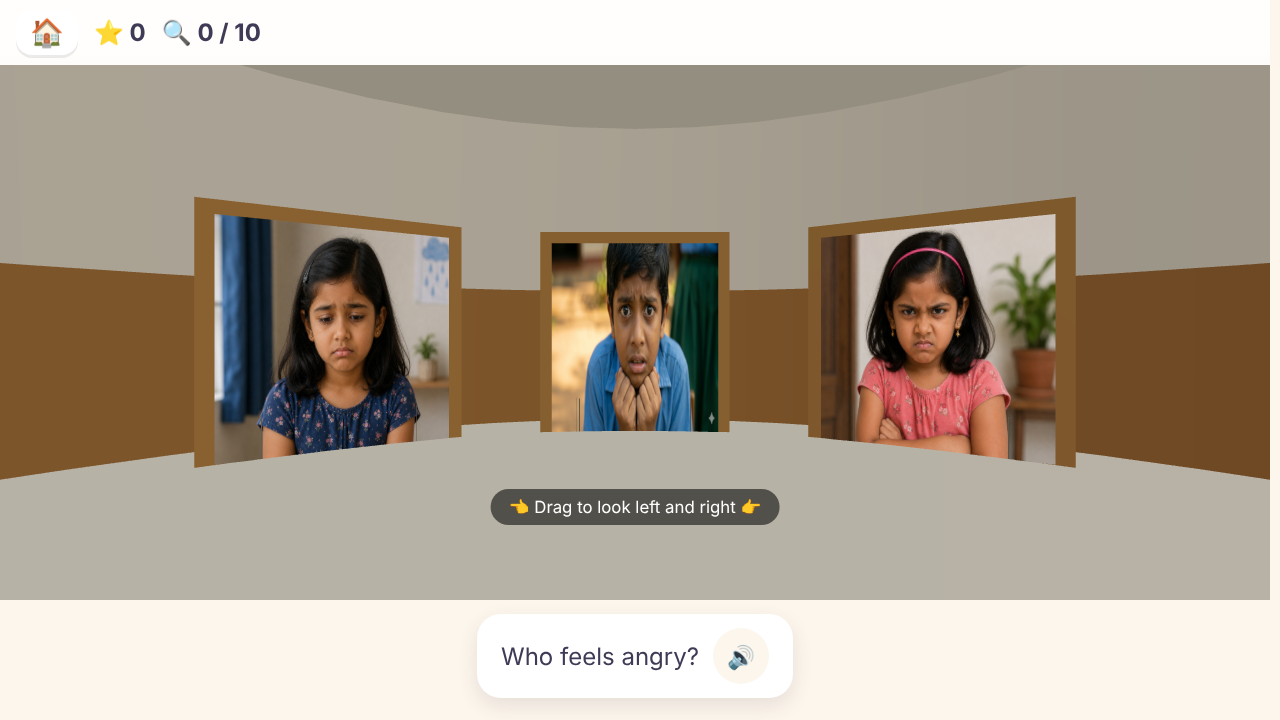
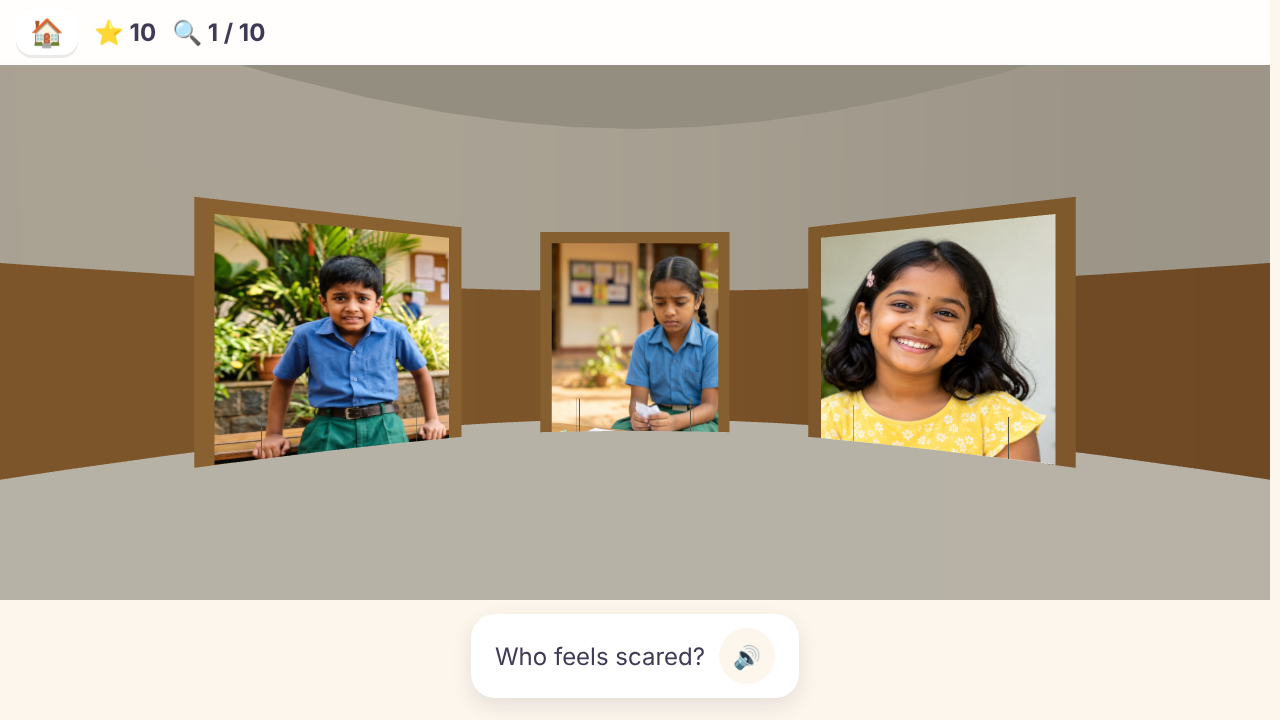
Show Emotion Room 360's faces at their real proportions
A plane maps its whole texture across its own width and height, so a photo
whose aspect does not match the board's gets squeezed to it. Over half of
public/emotions is 2816x1536 landscape and the board is 1.5x1.7, so those
faces were rendered 2.08x too narrow; the rest of the pool is 1402x1122 or
square and came out 1.42x or 1.13x too narrow. makeRound draws a photo at
random each trial, so which distortion a child got varied trial to trial.

That matters here and nowhere else in the app. This game scores a child on
the geometry of a face - mouth width and curvature, eye aperture, brow angle -
so a horizontal squeeze changes the thing being measured, by an amount that
was neither controlled nor recorded. The flat twin renders the same files
through object-fit: contain, undistorted, so the two builds were not even
showing the same stimulus.

coverUv centre-crops each photo to the board's shape instead, the way CSS
"cover" does: keep the full height of a landscape photo and trim the sides,
keep the full width of a tall one and trim top and bottom, never scale the
two axes differently. Letterboxing the whole frame inside the board would
have kept the geometry too, but it shrinks a landscape photo to a strip
about 0.8m tall on a 1.7m board, which puts the face below legible size at
4.2m.

Cropping can only be safe if the face survives it, so all 25 photos were
rendered at the crop and checked: every one keeps the face fully in frame
[…]

diff --git a/src/games/emotionrecognition360/logic.test.ts b/src/games/emotionrecognition360/logic.test.ts
@@ -1,12 +1,19 @@
+import { readFileSync } from 'node:fs'
+import { resolve } from 'node:path'
 import { describe, expect, it } from 'vitest'
 import type { Difficulty } from '../../types'
 import { CONFUSABLE_WITH } from '../emotionVocab'
+import { SINGLE_IMAGES } from '../emotionrecognition/content'
 import {
   AVAILABLE_EMOTIONS,
   BEARINGS,
+  BOARD_H,
+  BOARD_W,
   CONFIG,
   FRONT_HALF_ARC_DEG,
   answerBearingDeg,
+  coverKeptFraction,
+  coverUv,
   buildAnswerSlots,
   buildTargets,
   isDragTail,
@@ -169,3 +176,84 @@ describe('drag guard', () => {
     expect(isDragTail(1050)).toBe(false)
   })
 })
+
+
+describe('emotionrecognition360 photo fitting (review C1)', () => {
+  const BOARD_ASPECT = BOARD_W / BOARD_H
+
+  /** The aspect the child actually sees, given a UV window on a source image. */
+  function renderedAspect(imgW: number, imgH: number): number {
+    const { repeat } = coverUv(imgW, imgH)
+    return (imgW * repeat[0]) / (imgH * repeat[1])
+  }
+
+  it('shows every source shape at its true proportions, never squeezed', () => {
+    // the three shapes actually in public/emotions, plus two extremes
+    for (const [w, h] of [
+      [2816, 1536],
+      [1402, 1122],
+      [1254, 1254],
+      [512, 512],
+      [4000, 800],
+      [800, 4000],
+    ]) {
+      expect(renderedAspect(w, h)).toBeCloseTo(BOARD_ASPECT, 6)
+    }
+  })
+
+  it('crops a landscape photo at the sides and a tall one top and bottom', () => {
+    const wide = coverUv(2816, 1536)
+    expect(wide.repeat[1]).toBe(1) // full height kept
+    expect(wide.repeat[0]).toBeLessThan(1)
+    expect(wide.offset[0]).toBeCloseTo((1 - wide.repeat[0]) / 2, 6) // centred
+    expect(wide.offset[1]).toBe(0)
+
+    const tall = coverUv(1000, 2000)
+    expect(tall.repeat[0]).toBe(1) // full width kept
+    expect(tall.repeat[1]).toBeLessThan(1)
+    expect(tall.offset[1]).toBeCloseTo((1 - tall.repeat[1]) / 2, 6)
+    expect(tall.offset[0]).toBe(0)
+  })
+
+  it('leaves a photo already at the board aspect completely untouched', () => {
+    expect(coverUv(BOARD_W * 1000, BOARD_H * 1000)).toEqual({ repeat: [1, 1], offset: [0, 0] })
+  })
+
+  it('falls back to the whole frame for an image that has not decoded yet', () => {
+    for (const [w, h] of [
+      [0, 0],
+      [Number.NaN, 100],
+      [100, Number.NaN],
+      [-10, 10],
+    ]) {
+      expect(coverUv(w, h)).toEqual({ repeat: [1, 1], offset: [0, 0] })
+    }
+  })
+
+  it('keeps enough of every shipped photo that the face survives the crop', () => {
+    // A face sits in the middle of these photos, so a centre crop is safe at
+    // the shapes we ship (the widest keeps 48% of its pixels). A future asset
+    // far off the board's shape would crop away most of the frame, and the
+    // face with it — this is the guard for that, not a style rule.
+    const seen = new Map<string, number>()
+    for (const images of Object.values(SINGLE_IMAGES)) {
+      for (const img of images) {
+        const { width, height } = pngSize(img.src)
+        const kept = coverKeptFraction(width, height)
+        seen.set(`${width}x${height}`, kept)
+        expect(kept, `${img.src} (${width}x${height}) keeps only ${(kept * 100) | 0}%`)
+          .toBeGreaterThan(0.4)
+      }
+    }
+    expect(seen.size).toBeGreaterThan(0)
+  })
+})
+
+/** Read a PNG's pixel dimensions out of its IHDR chunk. */
+function pngSize(src: string): { width: number; height: number } {
+  // content.ts paths are browser-relative ('./emotions/x.png'); the files live
+  // under public/, and vitest runs from the repo root
+  const buf = readFileSync(resolve(process.cwd(), 'public', src.replace(/^\.?\//, '')))
+  expect(buf.subarray(1, 4).toString('ascii'), `${src} is not a PNG`).toBe('PNG')
+  return { width: buf.readUInt32BE(16), height: buf.readUInt32BE(20) }
+}

diff --git a/src/games/emotionrecognition360/logic.ts b/src/games/emotionrecognition360/logic.ts
@@ -47,6 +47,79 @@ export const BEARINGS: Record<number, number[]> = {
 /** How far each board stands from the child (who never moves). */
 export const BOARD_RADIUS = 4.2
 
+/**
+ * Board face size in metres. Near-square, so a board is a comfortable tap/gaze
+ * target at `BOARD_RADIUS` without reaching its neighbour.
+ *
+ * It is NOT the aspect of the photos: `SINGLE_IMAGES` holds three different
+ * shapes (2816x1536 landscape, 1402x1122, and square), so whatever the board
+ * is, most photos will not match it. `coverUv` below is what reconciles them.
+ */
+export const BOARD_W = 1.5
+export const BOARD_H = 1.7
+
+/** UV transform that fits an image to a plane without distorting it. */
+export interface CoverUv {
+  /** texture.repeat */
+  repeat: [number, number]
+  /** texture.offset */
+  offset: [number, number]
+}
+
+/**
+ * Crop a photo to the board's shape instead of stretching it to fit.
+ *
+ * A plane maps its whole texture across its own width and height, so a photo
+ * whose aspect differs from the board's is SQUEEZED to it. That is fatal here
+ * and nowhere else in the app: this game scores a child on the geometry of a
+ * face — mouth width and curvature, eye aperture, brow angle — and over half
+ * the photo pool is 2816x1536 landscape, which on a 1.5x1.7 board was being
+ * compressed to 2.08x too narrow. Worse, the three source shapes compress by
+ * different amounts (2.08x / 1.42x / 1.13x) and `makeRound` draws a photo at
+ * random each trial, so the distortion was an uncontrolled within-subject
+ * variable sitting on the primary measure — and the flat twin renders the same
+ * files with `object-fit: contain`, undistorted, which broke the 2D-360
+ * comparison the study rests on.
+ *
+ * So: centre-crop to the board's aspect ("cover"), never scale the two axes
+ * differently. The alternative, letterboxing the whole frame inside the board
+ * ("contain"), keeps the geometry too but shrinks a landscape photo to a thin
+ * strip ~0.8m tall on a 1.7m board, which would put the face below legible
+ * size at 4.2m. Cropping also discards the left and right thirds of the
+ * background, which in this pool is unrelated room detail that competes with
+ * the face.
+ *
+ * Returns the identity transform for a missing or degenerate image size, so a
+ * photo that has not decoded yet renders as it does today rather than
+ * disappearing behind a zero-area UV window.
+ */
+export function coverUv(
+  imgW: number,
+  imgH: number,
+  planeW: number = BOARD_W,
+  planeH: number = BOARD_H,
+): CoverUv {
+  const identity: CoverUv = { repeat: [1, 1], offset: [0, 0] }
+  if (!(imgW > 0) || !(imgH > 0) || !(planeW > 0) || !(planeH > 0)) return identity
+  const imgAspect = imgW / imgH
+  const planeAspect = planeW / planeH
+  if (imgAspect > planeAspect) {
+    // wider than the board: keep the full height, crop the sides evenly
+    const r = planeAspect / imgAspect
+    return { repeat: [r, 1], offset: [(1 - r) / 2, 0] }
+  }
+  // taller than the board: keep the full width, crop top and bottom evenly
+  const r = imgAspect / planeAspect
+  return { repeat: [1, r], offset: [0, (1 - r) / 2] }
+}
+
+/** Fraction of a photo's pixels that survive `coverUv` — a future asset far
+ *  off the board's shape would lose most of its frame, and the face with it. */
+export function coverKeptFraction(imgW: number, imgH: number): number {
+  const { repeat } = coverUv(imgW, imgH)
+  return repeat[0] * repeat[1]
+}
+
 export interface RoundConfig {
   /** how many face-boards stand up each round (also the guessing denominator) */
   boardCount: number

diff --git a/src/games/emotionrecognition360/EmotionRecognition360Scene.tsx b/src/games/emotionrecognition360/EmotionRecognition360Scene.tsx
@@ -14,7 +14,10 @@ import { VRQuitButton } from '../VRQuitButton'
 import { VRInputSwitch } from '../VRInputSwitch'
 import { VRHudAnchor } from '../VRHudAnchor'
 import {
+  BOARD_H,
+  BOARD_W,
   boardPosition,
+  coverUv,
   dragDistance,
   isDragTail,
   lookDrag,
@@ -25,9 +28,6 @@ import {
 const EYE_Y = 1.5
 /** centre height of every board (a touch below eye level, like a gallery hang) */
 const BOARD_Y = 1.45
-/** board face size (metres) — near-square so portrait face photos don't distort */
-const BOARD_W = 1.5
-const BOARD_H = 1.7
 
 /** per-board display state, decided by the game and mirrored into the scene */
 export type BoardState = 'idle' | 'correct' | 'wrong' | 'dim'
@@ -384,7 +384,20 @@ function FaceBoard({
 
   // load the real face photo as a texture (no Suspense needed)
   const texture = useMemo(() => {
-    const tex = new THREE.TextureLoader().load(board.imageSrc)
+    const tex = new THREE.TextureLoader().load(board.imageSrc, (loaded) => {
+      // Crop the photo to the board's shape rather than letting the plane
+      // squeeze it to fit. The source pool is three different aspects and most
+      // of it is landscape, so without this a face is rendered up to 2.08x too
+      // narrow — and this game measures the geometry of a face. See `coverUv`.
+      // The image size is only known once it has decoded, which is why this
+      // runs in the load callback and not above.
+      const { repeat, offset } = coverUv(loaded.image.width, loaded.image.height)
+      loaded.repeat.set(repeat[0], repeat[1])
+      loaded.offset.set(offset[0], offset[1])
+      // repeat/offset feed texture.matrix, which the renderer refreshes every
+      // frame while matrixAutoUpdate is on — no needsUpdate, which would cost a
+      // second upload of a texture that has just been uploaded.
+    })
     tex.colorSpace = THREE.SRGBColorSpace
     // anisotropic filtering keeps the face crisp at the board's viewing angle,
     // instead of shimmering as the child turns their head

diff --git a/docs/emotion-identification-360-review-2026-11-17.md b/docs/emotion-identification-360-review-2026-11-17.md
@@ -29,6 +29,8 @@
 - All 25 face photos measured for pixel dimensions and aspect.
 - Angular geometry computed from the shipped constants (reproduced inline below).
 
+> **Status.** **C1 is fixed** (commit below); everything else here is as found at `d014fcf`.
+>
 > **Caveat on the screenshots.** The headless renderer is SwiftShader (software), so frame
 > rates and fill costs there mean nothing. Draw-call counts, texture-upload byte counts and
 > shader-compile counts are real; everything about *feel* on a Quest needs the device.
@@ -125,7 +127,7 @@ switch from `"below"` to `"above"` after a neck-strain report is the right call.
 
 ## 2. Critical issues
 
-### C1 — Emotion Room 360 renders every face geometrically distorted `[MEASURED]`
+### C1 — Emotion Room 360 renders every face geometrically distorted `[MEASURED]` `[FIXED 2026-11-17]`
 
 **This is the most serious finding in either game, because it corrupts the stimulus itself.**
 
@@ -151,9 +153,9 @@ they are not even one aspect among themselves:
 The scene comment says the board is *"near-square so portrait face photos don't distort"* — but
 over half the pool is **landscape**, so the near-square plane is the worst possible choice for it.
 
-Rendered head-on from the child's position, against the source:
+Rendered head-on from the child's position, before and after the fix:
 
-![aspect comparison](./emotion-360-aspect-compare.png)
+![aspect comparison](./emotion-360-aspect-compare.jpg)
 
 Three consequences, in severity order:
 
@@ -172,6 +174,31 @@ Three consequences, in severity order:
    measures this bug. `docs/study-blueprint-buds.md` treats the pair as the same task.
 
 Fix in §4.1. **Nothing else in this review matters as much as this one.**
+
+> **Resolved 2026-11-17 — the code half of §4.1 only.** `coverUv` now centre-crops each photo
+> to the board's aspect instead of letting the plane squeeze it, so every face renders at its
+> true proportions whatever shape the source file is. Verified three ways: five unit tests
+> covering the three shipped shapes plus two extremes and the undecoded-image fallback; a test
+> that reads the real PNG headers and fails if a future asset would lose more than 60% of its
+> frame to the crop; and every one of the 25 photos rendered at the crop and checked by eye —
+> **all 25 keep the face fully in frame, centred, with room to spare** (the tightest keeps 48%
+> of its pixels). See `docs/emotion-360-cover-crops.jpg`.
+>
+> Two things this did **not** do, deliberately:
+>
+> - **The assets are untouched**, so **C6 (per-round texture churn) is still open** — the fix
+>   changes which part of each 2816×1536 texture is sampled, not how big it is or how often it
+>   is uploaded. §4.2 is still the fix for that.
+> - **The framing now differs between builds**, where before the *geometry* did. The 360 board
+>   shows a centre crop and the flat twin still shows the whole frame
+>   (`object-fit: contain`). Both are undistorted, which is the part that mattered, but they
+>   are not identical stimuli. Closing that gap means re-cropping the source files so both
+>   builds show the same thing — which changes the flat game's stimuli too, and is a study-design
+>   call rather than a bug fix, so it is left to the researcher (§4.1, second half).
+>
+> A side benefit worth noting against **D3**: the crop discards the left and right thirds of
+> each photo, which in this pool is unrelated room background — including the weather poster
+> sitting beside the sad child.
 
 ### C2 — The video clips' audio is outside the mute and volume system entirely `[MEASURED]`
 
@@ -487,6 +514,10 @@ to turn to.
 ## 4. Code optimisation & fixes
 
 ### 4.1 — Stop distorting the faces (fixes C1)
+
+> **Shipped 2026-11-17**, as the first half below. The asset re-authoring in the second half is
+> still open and still the better end state — it is what would also close C6 and make the two
+> builds show the same stimulus.
 
 The minimal, immediate fix is a cover-fit on the texture, so the board crops the photo instead of
 squeezing it:
@@ -877,7 +908,7 @@ Record `actualFreezeTime` either way (§4.6) so the residual slop is measurable 
 
 | | Item | Why first |
 |---|---|---|
-| 1 | **C1** — face aspect distortion (§4.1) | The stimulus itself is wrong, it varies randomly within-subject, and it breaks the 2D↔360 comparison the study design rests on. **Nothing should be collected on Emotion Room 360 until this is fixed.** |
+| 1 | ✅ **C1** — face aspect distortion (§4.1) | The stimulus itself was wrong, varied randomly within-subject, and broke the 2D↔360 comparison the study design rests on. **Fixed 2026-11-17**; the asset re-crop that would also close C6 and equalise framing across builds is left to the researcher. |
 | 2 | **C2** — clip audio outside mute/volume + 41 dB loudness spread (§4.3) | Child-safety: the adult in the room cannot turn down the loudest thing in the game. Also a stimulus-control defect. |
 | 3 | **C3** — two (three) voices at once (§4.3) | Sensory risk, and it buries the vocabulary teaching under the cheer. A four-line fix; the helper already exists. |
 | 4 | **C6** — per-round texture churn (§4.2) | Ten main-thread stalls per session is a judder source, and judder is a sickness source. Falls out of fixing C1 properly. |
@@ -890,7 +921,9 @@ Record `actualFreezeTime` either way (§4.6) so the residual slop is measurable 
 
 - Whether `"above"` in Emotion Room crowds the prompt panel at 18.6° vs 21.4° (§4.5), and
   whether a 22° answer-card row in Cinema reads as four options or as two pairs (§4.4).
-- Whether a centre crop keeps the face in frame for all 25 photos (§4.1) — check every one by eye.
+- ~~Whether a centre crop keeps the face in frame for all 25 photos (§4.1)~~ — **checked, all 25
+  pass**; see `docs/emotion-360-cover-crops.jpg`. What still needs the headset is whether the
+  cropped board and the flat build's whole-frame presentation read as the same task to a child.
 - Whether `fear_hard_1`'s lightning flash startles children in your sample, with the clip at a
   normalised −23 LUFS and the headset at a realistic volume. If it does, the clip needs replacing,
   not turning down.
